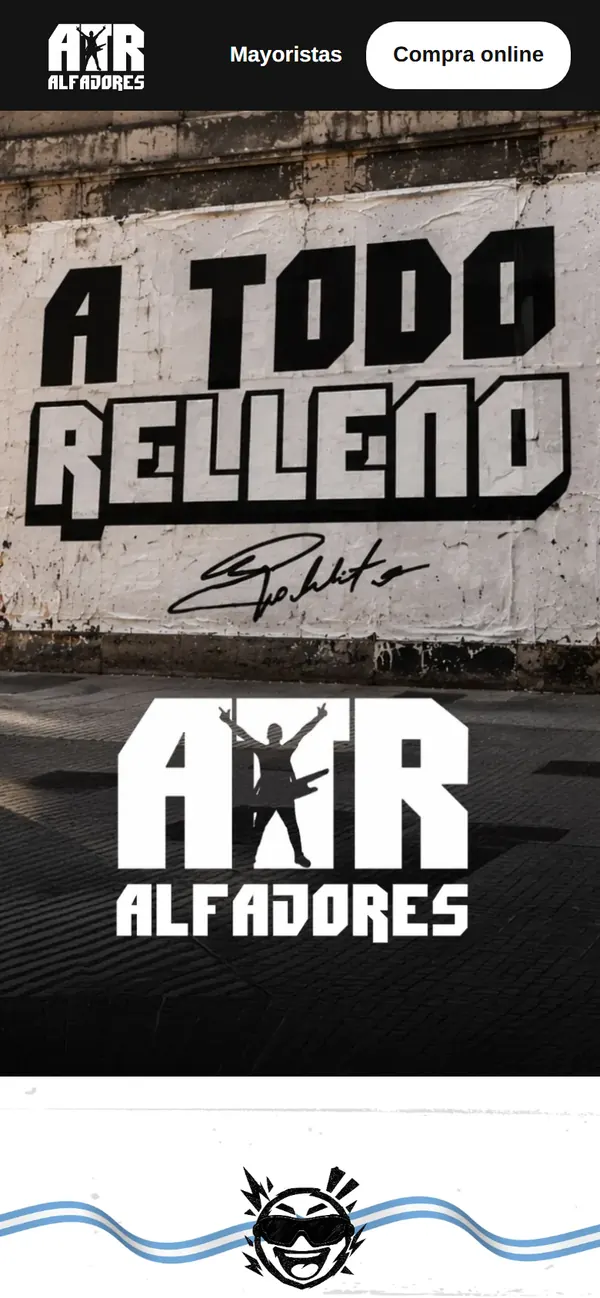
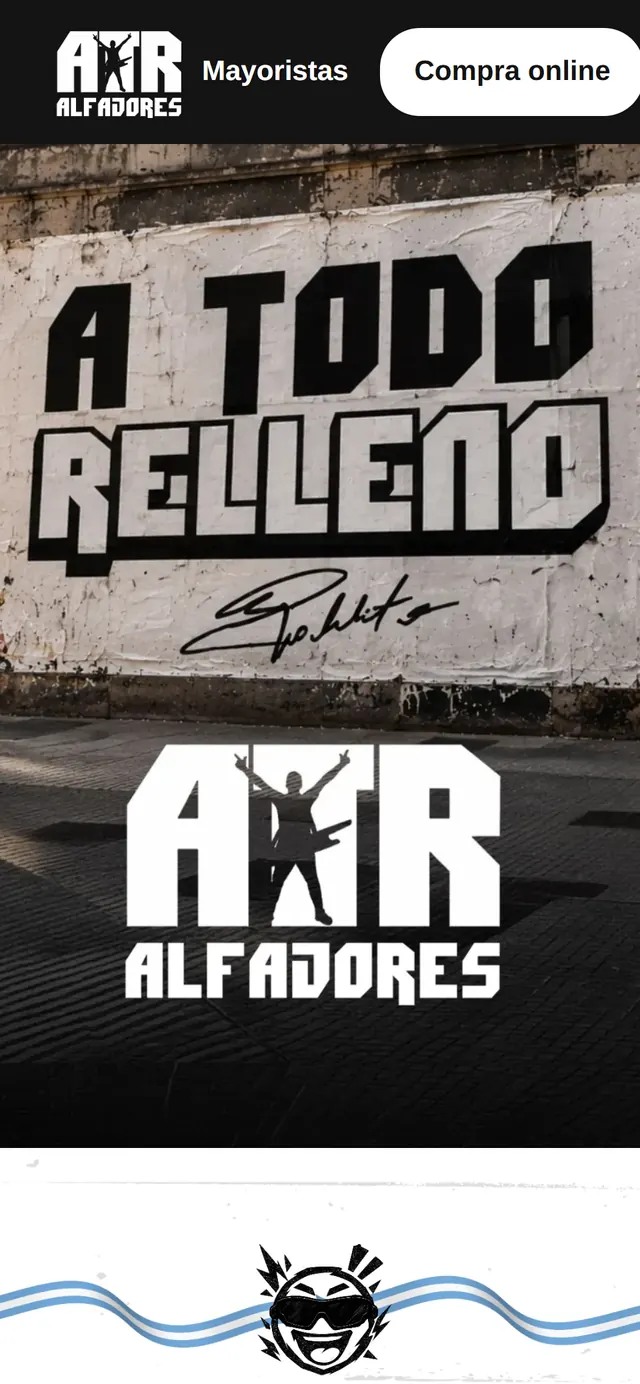
Desarrollo web: título a todo el ancho desde 1280 px y capturas mobile más grandes

diff --git a/sitio/assets/css/secciones.css b/sitio/assets/css/secciones.css
@@ -494,22 +494,31 @@ body.menu-abierto { overflow: hidden; }
   .clientes-lista li:last-child { margin-right: 0; }
 }
 
-/* Dos columnas recién desde 1280 px: antes, "DESARROLLO" deja muy angosta
-   la columna de las pantallas y se usa la disposición de tablet */
+/* Desde 1280 px: el título arriba a todo el ancho y debajo dos columnas,
+   textos a la izquierda y pantallas a la derecha. .dw-texto se "disuelve"
+   (display: contents) para que el h2, la frase, la bajada y las píldoras
+   se ubiquen solos en la grilla. Antes de 1280 se usa la disposición de tablet. */
 @media (min-width: 1280px) {
   .dw-contenedor {
-    grid-template-columns: 1fr 1.1fr;
+    grid-template-columns: 1fr 1.15fr;
+    grid-template-rows: auto auto auto auto 1fr;
     grid-template-areas:
-      "texto visual"
+      "titulo titulo"
+      "frase visual"
+      "bajada visual"
+      "pildoras visual"
       "boton visual";
-    align-items: center;
-    column-gap: 4rem;
-    row-gap: 2rem;
+    column-gap: 5rem;
+    row-gap: 0;
   }
 
-  .dw-texto { grid-area: texto; align-self: end; }
-  .dw-visual { grid-area: visual; }
-  .dw-boton { grid-area: boton; align-self: start; }
+  .dw-texto { display: contents; }
+  .dw-texto h2 { grid-area: titulo; }
+  .dw-texto .frase { grid-area: frase; }
+  .dw-texto .bajada { grid-area: bajada; }
+  .dw-texto .pildoras { grid-area: pildoras; align-self: start; }
+  .dw-visual { grid-area: visual; align-self: center; }
+  .dw-boton { grid-area: boton; align-self: start; margin-top: 2.5rem; }
 
   .dw-pantallas { max-width: none; }
 

diff --git a/sitio/index.html b/sitio/index.html
@@ -97,9 +97,9 @@
 
             <div class="celular">
               <div class="pantalla">
-                <img class="pantalla-captura activa" data-cliente="novo-hair" src="assets/img/clientes/novo-hair-mobile.webp" alt="Web de Novo Hair en el celular" width="600" height="1298" loading="lazy" decoding="async">
-                <img class="pantalla-captura" data-cliente="talar-maderas" data-src="assets/img/clientes/talar-maderas-mobile.webp" alt="Web de Talar Maderas en el celular" width="600" height="1298" loading="lazy" decoding="async" aria-hidden="true">
-                <img class="pantalla-captura" data-cliente="atr" data-src="assets/img/clientes/atr-mobile.webp" alt="Web de ATR en el celular" width="600" height="1298" loading="lazy" decoding="async" aria-hidden="true">
+                <img class="pantalla-captura activa" data-cliente="novo-hair" src="assets/img/clientes/novo-hair-mobile.webp" alt="Web de Novo Hair en el celular" width="640" height="1384" loading="lazy" decoding="async">
+                <img class="pantalla-captura" data-cliente="talar-maderas" data-src="assets/img/clientes/talar-maderas-mobile.webp" alt="Web de Talar Maderas en el celular" width="640" height="1384" loading="lazy" decoding="async" aria-hidden="true">
+                <img class="pantalla-captura" data-cliente="atr" data-src="assets/img/clientes/atr-mobile.webp" alt="Web de ATR en el celular" width="640" height="1384" loading="lazy" decoding="async" aria-hidden="true">
               </div>
             </div>
 

diff --git a/docs/progress.md b/docs/progress.md
@@ -6,12 +6,11 @@ Lo mantiene Claude Code. Se actualiza al cerrar cada paso.
 
 - **Fase 3, paso 1 (Desarrollo web): hecho, esperando la revisión de Mauro.** No arrancar el paso 2 sin su confirmación. Fases 1 y 2 aprobadas por Mauro el 19/11 (los detalles de la galaxia se pulen más adelante).
 - Correcciones de Mauro al paso 1 (19/11), hechas: celular más grande (más que la proporción física, para que la web se lea) superpuesto a la esquina de la notebook; capturas mobile sin franja de la sección siguiente; tarjeta con el PageSpeed real de cada cliente que cambia con la rotación; disposición de tablet hasta 1280 px.
-- Preguntas abiertas para Mauro:
-  - ATR mobile: su hero es más ancho que una pantalla de celular (escala con el ancho: 390x700), así que abajo asoma su sección blanca siguiente. Llenar la pantalla sin esa franja obliga a recortar los costados (se corta el logo o el botón "Compra online"). Lo mismo pasa con ATR en la notebook. Se dejó la captura como estaba hasta que Mauro decida.
-  - Desktop desde 1280 px: en dos columnas, "DESARROLLO" deja la columna de las pantallas en ~400 px, así que el celular queda en ~110 px y la web no se lee. Propuesta: el h2 arriba ocupando todo el ancho y debajo textos a la izquierda y pantallas a la derecha (columna de ~600 px). Es maquetación aprobada: no se toca sin su OK.
+- Decisiones de Mauro en la segunda revisión del paso 1 (19/11): ATR queda como está (asoma su sección blanca: es su web real). Desde 1280 px, "DESARROLLO WEB" arriba a todo el ancho y debajo textos a la izquierda y pantallas a la derecha. Número del puntaje que sube contando: aprobado.
+- Pregunta abierta para Mauro: pidió el contenido del celular al doble de tamaño. Con el marco del mismo tamaño, el doble corta el título o el botón de cada web (a los costados y abajo). Se hizo lo que entra sin cortar nada: capturas como un celular de 320 px de ancho (contenido 1,22 veces más grande, con título, botón y menú enteros). Si quiere más, hay que elegir qué se pierde.
 - Decisiones tomadas en el paso 1 (revisar): rotación cada 5 segundos; con movimiento reducido no rota (se cambia solo tocando); al rotar en mobile, la fila de nombres se desliza sola para mostrar el activo; las pantallas suben con un fundido al entrar y la tarjeta llega después; en desktop la tarjeta se corre hacia el espacio entre columnas; el número de la tarjeta sube contando la primera vez que aparece y el círculo se llena; después cambia junto con el cliente.
 - Decisiones de Mauro para la Fase 3 (19/11):
-  - Clientes de Desarrollo web: Novo Hair | Talar Maderas | ATR (cambio en el brief). Capturas sacadas por Claude Code de las webs publicadas, quietas (solo la primera pantalla), desktop 1440x900 y mobile 390x844 (Novo Hair a 390x938 recortada a 844, para que su hero de 90% de pantalla llene todo el celular).
+  - Clientes de Desarrollo web: Novo Hair | Talar Maderas | ATR (cambio en el brief). Capturas sacadas por Claude Code de las webs publicadas, quietas (solo la primera pantalla), desktop 1440x900 y mobile como un celular de 320 px de ancho (320x692; Novo Hair a 320x770 recortada a 692, para que su hero de 90% de pantalla llene todo el celular).
   - Los clientes rotan solos cada unos segundos; la rotación se corta apenas el usuario toca un nombre y se pausa fuera de pantalla.
   - La tarjeta del puntaje muestra el PageSpeed real (computadora) del cliente que se está viendo, con los números del brief, sección Desarrollo web. Talar Maderas sin SEO hasta su dominio real.
   - Check de "Stock actualizado" en #25D366 (excepción a la paleta: el verde de WhatsApp también en ese check).
@@ -78,6 +77,7 @@ Lo mantiene Claude Code. Se actualiza al cerrar cada paso.
 
 ## Hecho
 
+- 19/11: segunda revisión del paso 1 de la Fase 3: desde 1280 px el título va arriba a todo el ancho (notebook de 323 a 445 px, celular de 109 a 150 px), los bytes forman "DESARROLLO WEB" en una línea en su lugar nuevo; capturas mobile rehechas a 320 px de ancho para que el contenido del celular se vea más grande. Probado en 390x844, 1180x820, 1280x800, 1440x900 y 1920x1080: sin errores ni scroll horizontal.
 - 19/11: correcciones del paso 1 de la Fase 3: celular más grande, captura mobile de Novo Hair sin franja, tarjeta con el PageSpeed real de cada cliente (Novo Hair 100 y SEO 100, Talar Maderas 99, ATR 100 y SEO 100) que cambia con la rotación y sin `[FALTA]`, disposición de tablet hasta 1280 px. Probado con Chrome en 375x667, 390x844, 768x1024, 1024x768, 1180x820, 1280x800, 1440x900 y con movimiento reducido: sin errores ni scroll horizontal. No probado en un celu real.
 - 19/11: Fase 3, paso 1: Desarrollo web. Capturas de Novo Hair, Talar Maderas (link provisorio) y ATR sacadas con Chrome sin ventana y pasadas a WebP (37 a 100 KB). Notebook y celular hechos en CSS, cambio de cliente con fundido, rotación automática que se corta al tocar un nombre y se pausa fuera de pantalla o con la pestaña oculta, carga diferida de las capturas (en mobile no se bajan las de la notebook), indicador circular listo para el puntaje real. Nuevo `secciones.js`. Probado con Chrome en 375x667, 390x844, 768x1024, 1024x768, 1440x900, 1920x1080 y con movimiento reducido: sin errores de consola (solo falta el favicon, que es de la Fase 5) ni scroll horizontal. No probado en un celu real.
 - 19/11: ajustes de la revisión de las Fases 1 y 2 (6 puntos): galaxia del hero más real con violetas sueltas, pin del hero con la formación de la S más rica, supernova sobre la galaxia, fugaces fuera del hero, títulos que se forman apenas asoma su sección y caen en bytes al irse, S que no toca la etiqueta en pantallas bajas. Probado con Chrome en 375x667, 390x664, 390x844, 768x1024, 1024x768 y 1440x900: sin errores de consola ni scroll horizontal, links del menú frenando 40 px debajo del menú, movimiento reducido sin pin, mobile a ~60 cuadros por segundo con la CPU frenada 4 veces. No probado en un celu real.

diff --git a/docs/componentes.md b/docs/componentes.md
@@ -9,7 +9,7 @@ Lo mantiene Claude Code. Registro de las piezas reutilizables, para usarlas en l
 - `sitio/assets/css/secciones.css`: disposición de cada sección de la landing (no se reutiliza).
 - `sitio/assets/js/interfaz.js`: menú hamburguesa y WhatsApp que se esconde con el formulario en mobile.
 - `sitio/assets/js/secciones.js`: animaciones de cada sección (Fase 3). Funciones de ayuda `alEntrar` (una vez, al aparecer en pantalla), `alVer` (cada vez que entra o sale) y `cuandoLibre`. Las entradas se disparan con IntersectionObserver y no con posiciones de scroll, para que el pin del hero y el parallax no las corran. Desarrollo web: cambio de cliente, rotación automática, carga diferida de capturas, entrada de las pantallas y tarjeta del puntaje de cada cliente.
-- `sitio/assets/img/clientes/`: capturas de las webs de clientes en WebP, `<cliente>-desktop.webp` (1280x800) y `<cliente>-mobile.webp` (600x1298, sacada a 390x844 con pantalla retina). Solo la primera pantalla de cada web. Si el hero de una web no llena la pantalla (por ejemplo, ocupa el 90% del alto), se saca con una pantalla más alta y se recorta al hero, para que no asome la sección siguiente.
+- `sitio/assets/img/clientes/`: capturas de las webs de clientes en WebP, `<cliente>-desktop.webp` (1280x800) y `<cliente>-mobile.webp` (640x1384, sacada como un celular de 320x692 a triple resolución: a 320 px de ancho el contenido de cada web se ve más grande dentro del celular dibujado). Solo la primera pantalla de cada web. Si el hero de una web no llena la pantalla (por ejemplo, ocupa el 90% del alto), se saca con una pantalla más alta y se recorta al hero, para que no asome la sección siguiente.
 - `sitio/assets/img/iconos.svg`: todos los íconos en un solo archivo.
 - `sitio/assets/js/particulas.js`: sistema de partículas (galaxia, S, títulos de 0 y 1, espiral atada al scroll, estrellas fugaces, luces al tocar). Ver "Partículas" abajo.
 - `sitio/assets/img/isologo-s-muestreo.png`: copia del isologo blanco SIN el "DEV", recortada a la S y a 400 px de ancho. Solo se usa para muestrear la forma de la S (el original de `../branding/` no se tocó).
